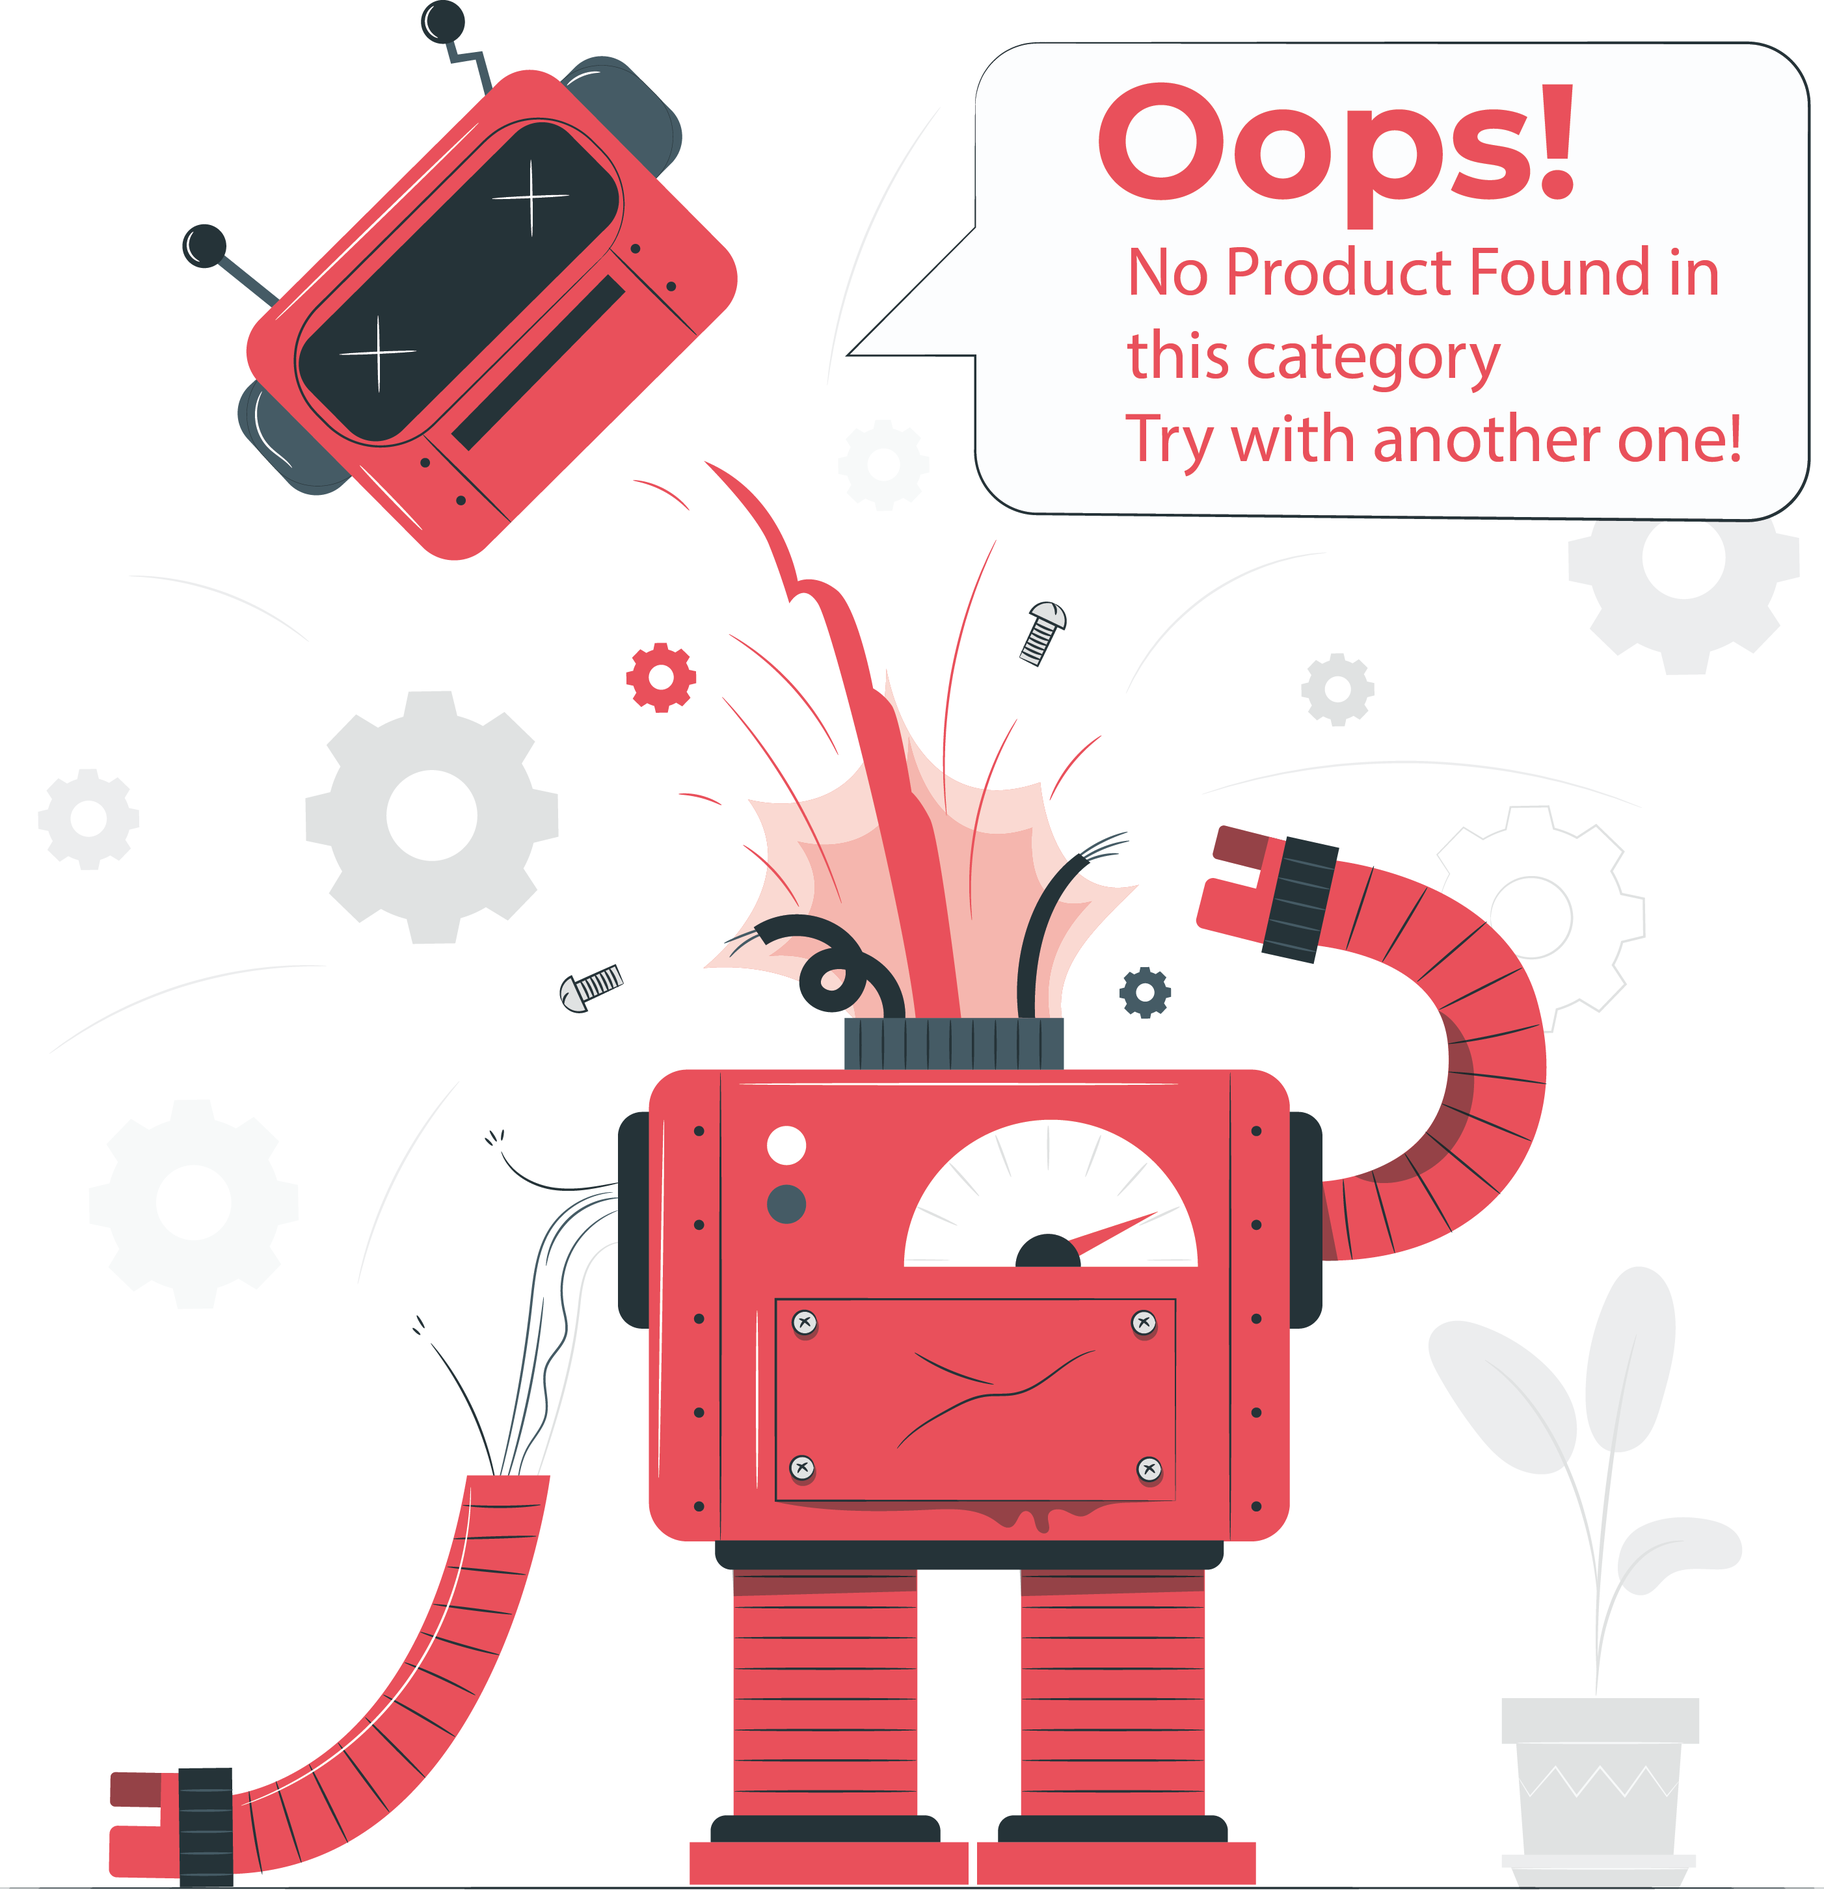
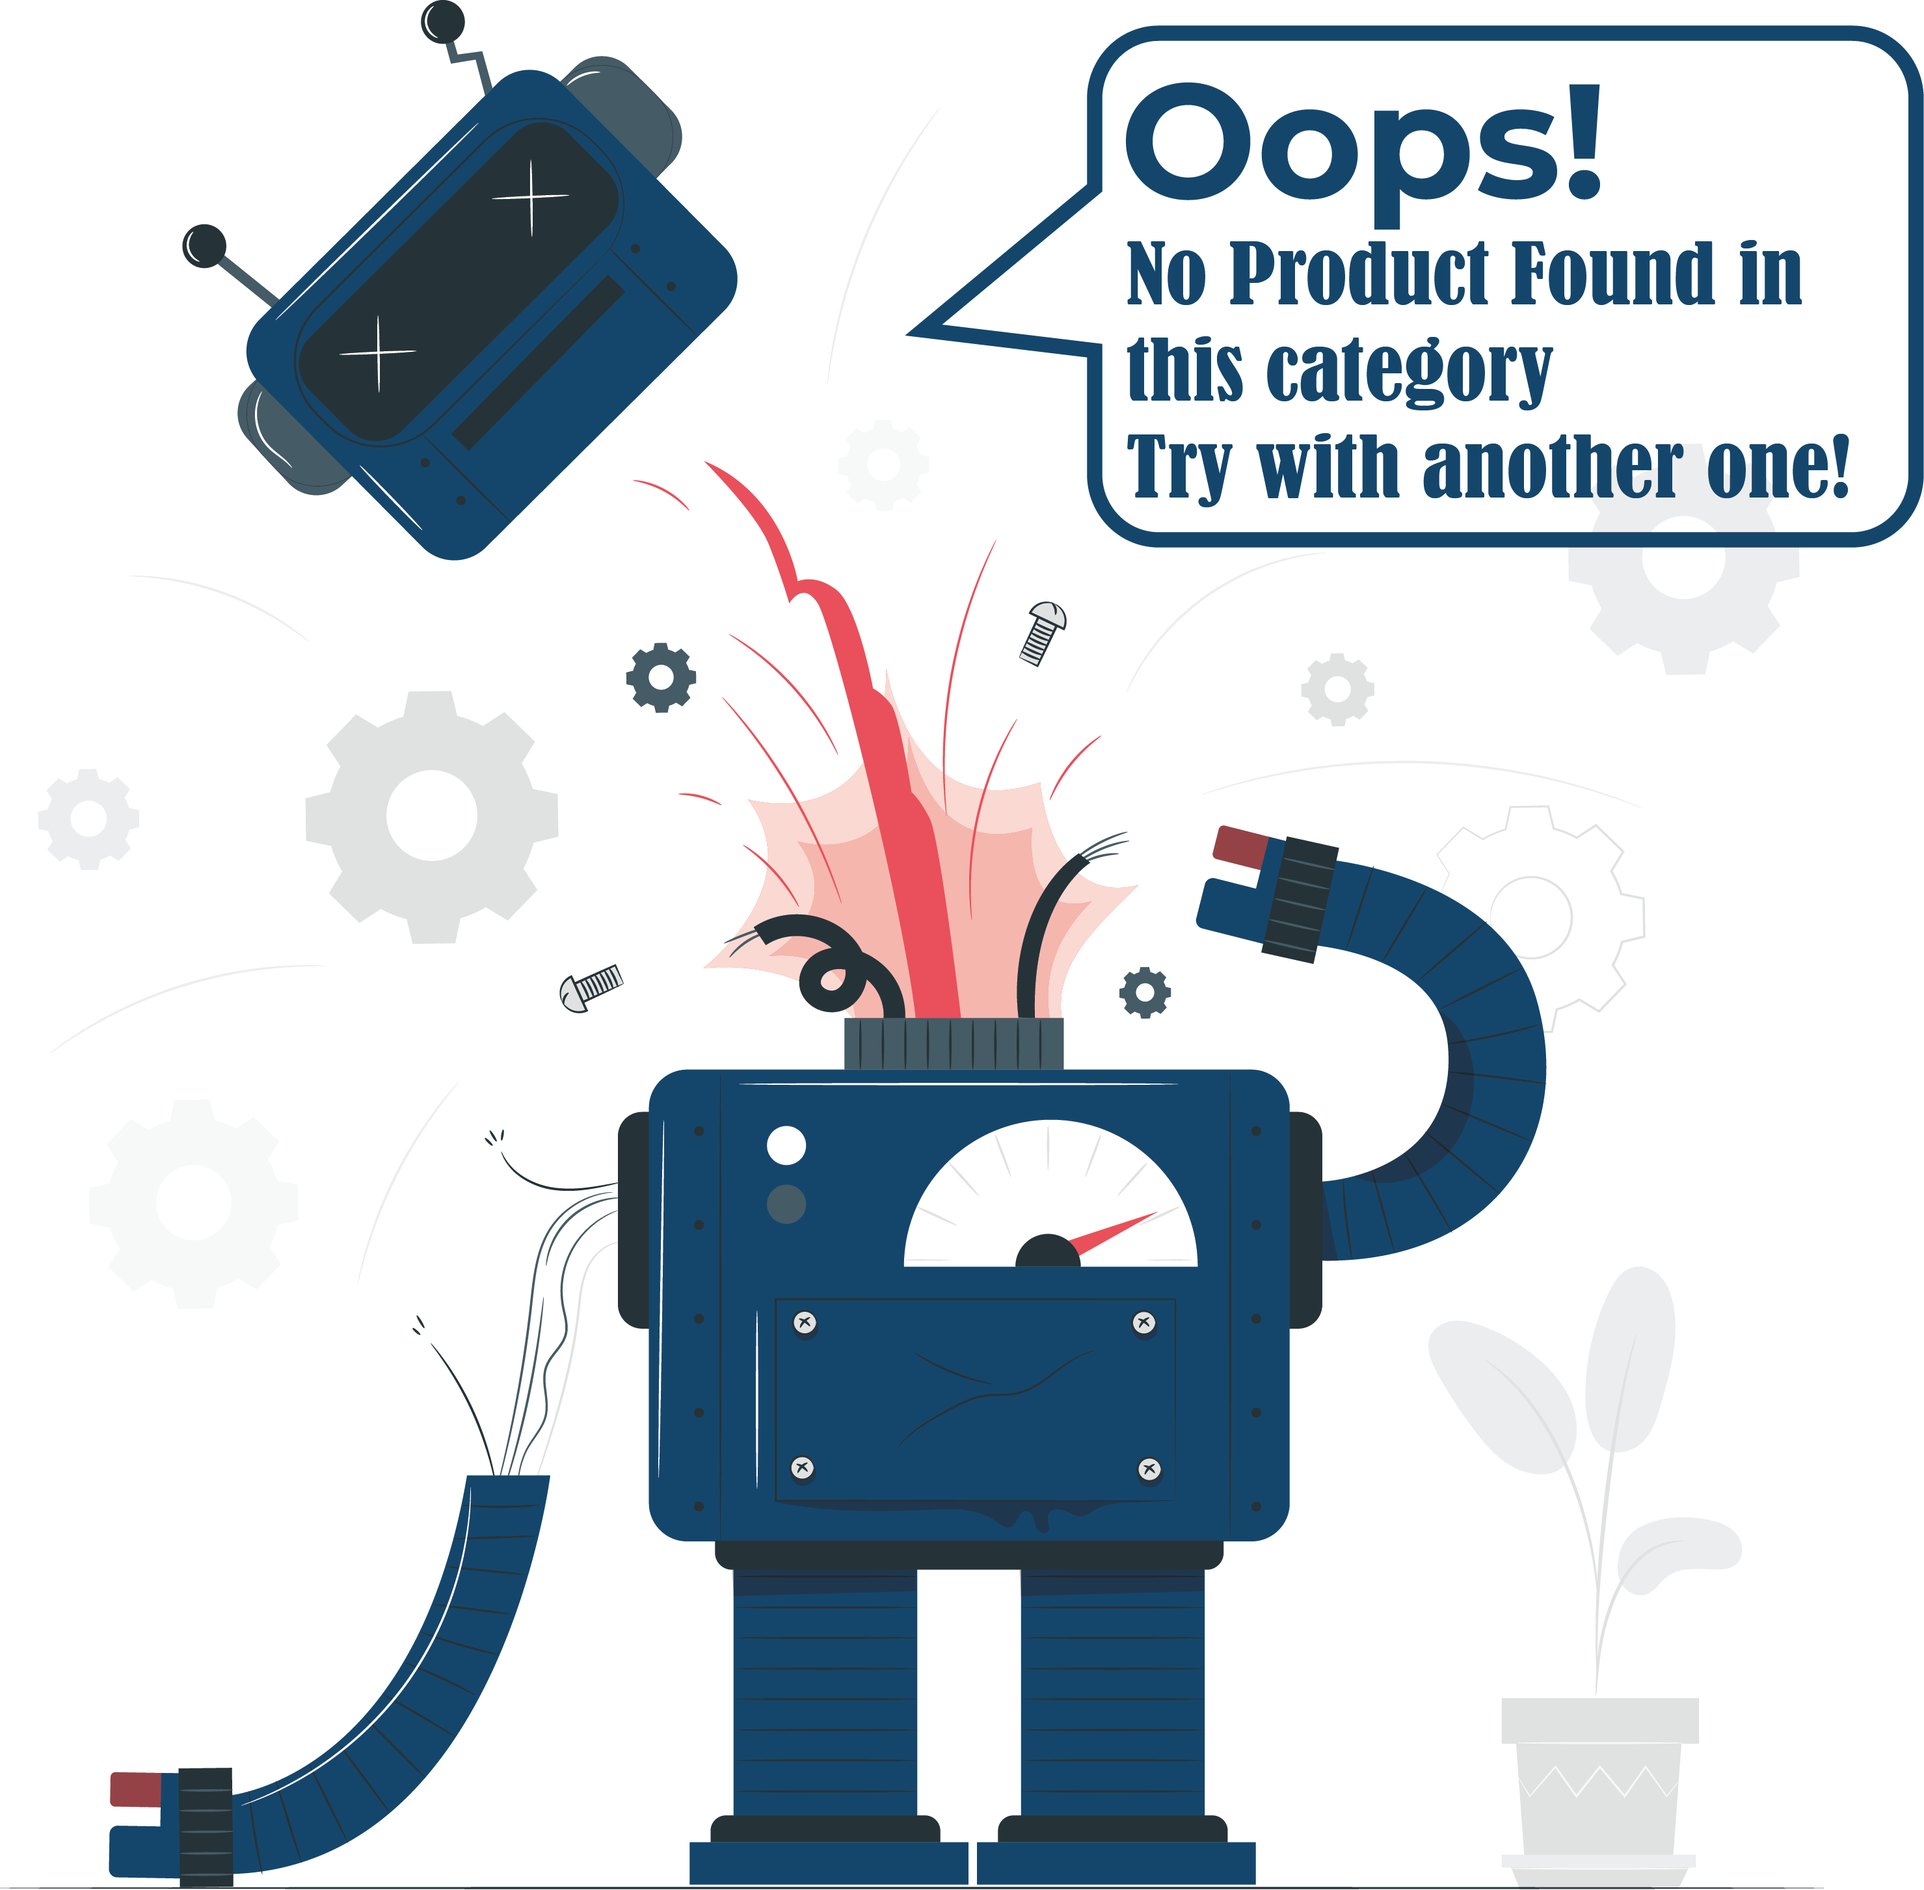
added the shadow on the categories

diff --git a/lib/screens/home_screen.dart b/lib/screens/home_screen.dart
@@ -87,7 +87,7 @@ class _HomeScreenState extends State<HomeScreen> with TickerProviderStateMixin {
                     Text("Location"),
                     Row(
                       children: [
-                        Icon(Icons.location_on, color: primaryGreen),
+                        Icon(Icons.location_on, color: itemBackground),
                         Text("Dubai"),
                       ],
                     ),
@@ -157,10 +157,18 @@ class _HomeScreenState extends State<HomeScreen> with TickerProviderStateMixin {
                           padding: EdgeInsets.all(2),
                           margin: EdgeInsets.only(left: 20),
                           decoration: BoxDecoration(
-                              color: itemBackgroundColor,
-                              border:
-                                  Border.all(color: itemBackground, width: 1),
-                              borderRadius: BorderRadius.circular(5)),
+                            color: itemBackgroundColor,
+                            border: Border.all(color: itemBackground, width: 1),
+                            borderRadius: BorderRadius.circular(5),
+                            boxShadow: [
+                              BoxShadow(
+                                color: Colors.grey.withOpacity(1),
+                                spreadRadius: 1,
+                                blurRadius: 2,
+                                offset: Offset(2, 3),
+                              ),
+                            ],
+                          ),
                           child: Image.asset(
                             "images/categories/${categories[index]["iconPath"]}",
                             color: itemIconColor,
@@ -218,7 +226,7 @@ class ProductList extends StatelessWidget {
       return Expanded(
         child: Container(
           padding: EdgeInsets.symmetric(horizontal: 20),
-                  child: Image.asset(
+          child: Image.asset(
             "images/product-error.png",
             fit: BoxFit.contain,
           ),

diff --git a/lib/screens/product_details.dart b/lib/screens/product_details.dart
@@ -39,21 +39,19 @@ class _ProductDetailsState extends State<ProductDetails> {
   bool _isNotFavorite = false;
   IconData favoriteIcon = Icons.favorite_border;
 
-
   @override
   Widget build(BuildContext context) {
     data = ModalRoute.of(context).settings.arguments;
     ProductModel product =
         data["product"]; // image index in the configuration.dart file
 
-        _togglefavorite(){
-          _isNotFavorite = !_isNotFavorite;
-          _isNotFavorite ? 
-          favoriteIcon = Icons.favorite
-          : 
-          favoriteIcon = Icons.favorite_border;
-        }
-      
+    _togglefavorite() {
+      _isNotFavorite = !_isNotFavorite;
+      _isNotFavorite
+          ? favoriteIcon = Icons.favorite
+          : favoriteIcon = Icons.favorite_border;
+    }
+
     return Scaffold(
       backgroundColor: itemBackground,
       body: SingleChildScrollView(
@@ -206,16 +204,16 @@ class _ProductDetailsState extends State<ProductDetails> {
                         ],
                       ),
                       IconButton(
-                        onPressed: (){
+                          onPressed: () {
                             setState(() {
-                               _togglefavorite();
+                              _togglefavorite();
                             });
-                        },
-                        icon: Icon( favoriteIcon,
-                                    color: Colors.red[900],
-                                    size: 30,
-                                )
-                      )
+                          },
+                          icon: Icon(
+                            favoriteIcon,
+                            color: Colors.red[900],
+                            size: 30,
+                          ))
                     ],
                   ),
                   Row(

diff --git a/lib/configuration.dart b/lib/configuration.dart
@@ -2,7 +2,6 @@ import 'package:flutter/material.dart';
 import 'package:font_awesome_flutter/font_awesome_flutter.dart';
 
 Color primaryGreen = Color.fromRGBO(135, 90, 123, 1);
-//Color itemBackground = Color.fromRGBO(135, 90, 123, 1);
 Color itemBackground = Color.fromRGBO(25, 69, 107, 1);
 Color productDetailsBG = Color.fromRGBO(135, 90, 123, 1);
 
@@ -15,14 +14,8 @@ List<Map> categories = [
   {'name': 'DSLR', 'iconPath': 'dslr-icon-20201230.png'},
   {'name': 'Laptop', 'iconPath': 'laptop-icon-20201231.png'},
   {'name': 'Mobiles', 'iconPath': 'mobile-icon-20201230.png'},
-  {
-    'name': 'Accessories',
-    'iconPath': 'accessories-icon-20201230.png'
-  },
-  {
-    'name': 'Printers',
-    'iconPath': 'printer-icon-20201230.png'
-  },
+  {'name': 'Accessories', 'iconPath': 'accessories-icon-20201230.png'},
+  {'name': 'Printers', 'iconPath': 'printer-icon-20201230.png'},
   {'name': 'iPad', 'iconPath': 'ipad-icon-20201230.png'}
 ];
 

diff --git a/lib/screens/drawer_screen.dart b/lib/screens/drawer_screen.dart
@@ -11,7 +11,7 @@ class _DrawerScreenState extends State<DrawerScreen> {
   Widget build(BuildContext context) {
     return Container(
       padding: EdgeInsets.only(top: 50, bottom: 40, left: 10),
-      color: Colors.black,
+      color: itemBackground.withOpacity(0.7),
       child: Column(
         mainAxisAlignment: MainAxisAlignment.spaceBetween,
         children: <Widget>[
